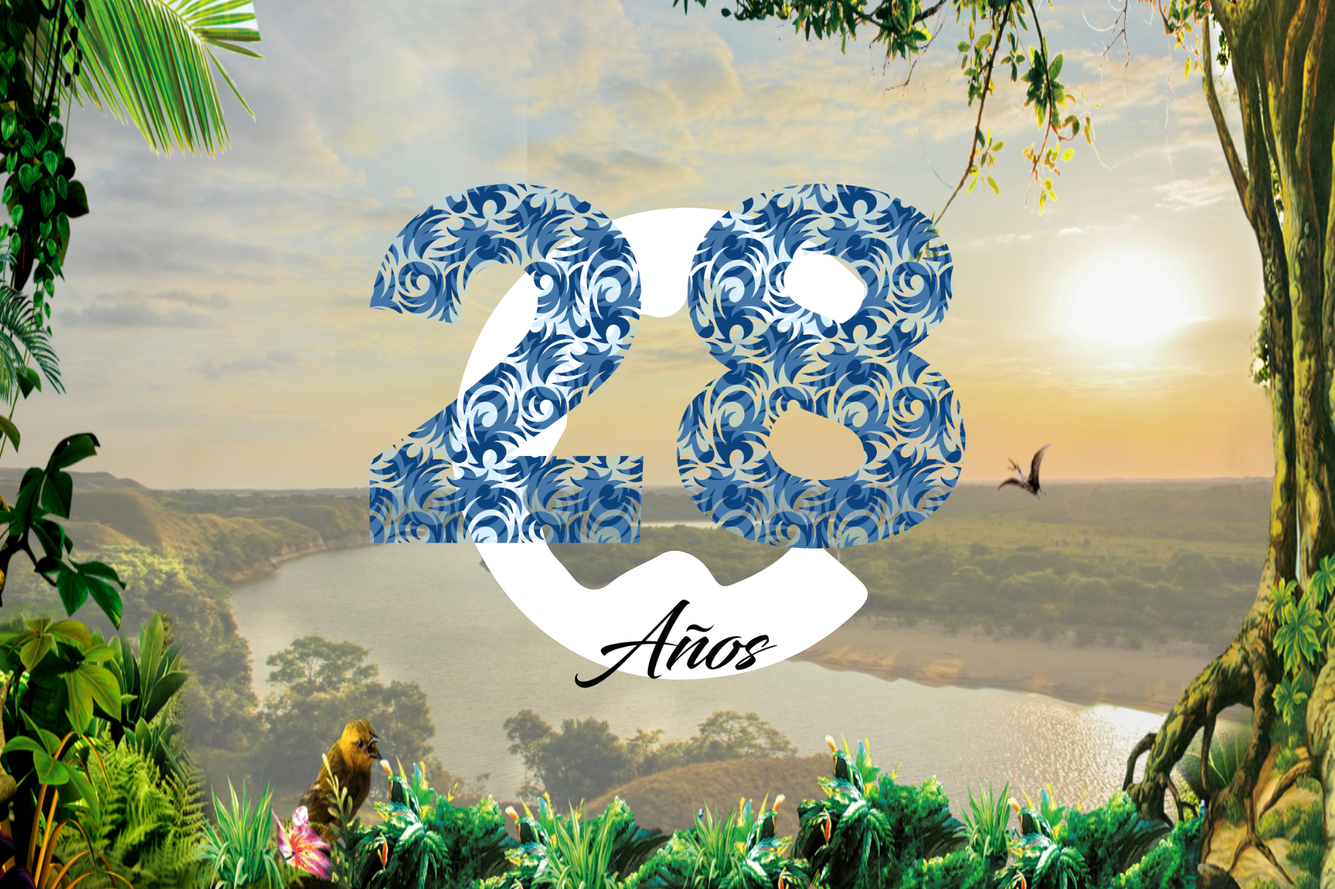
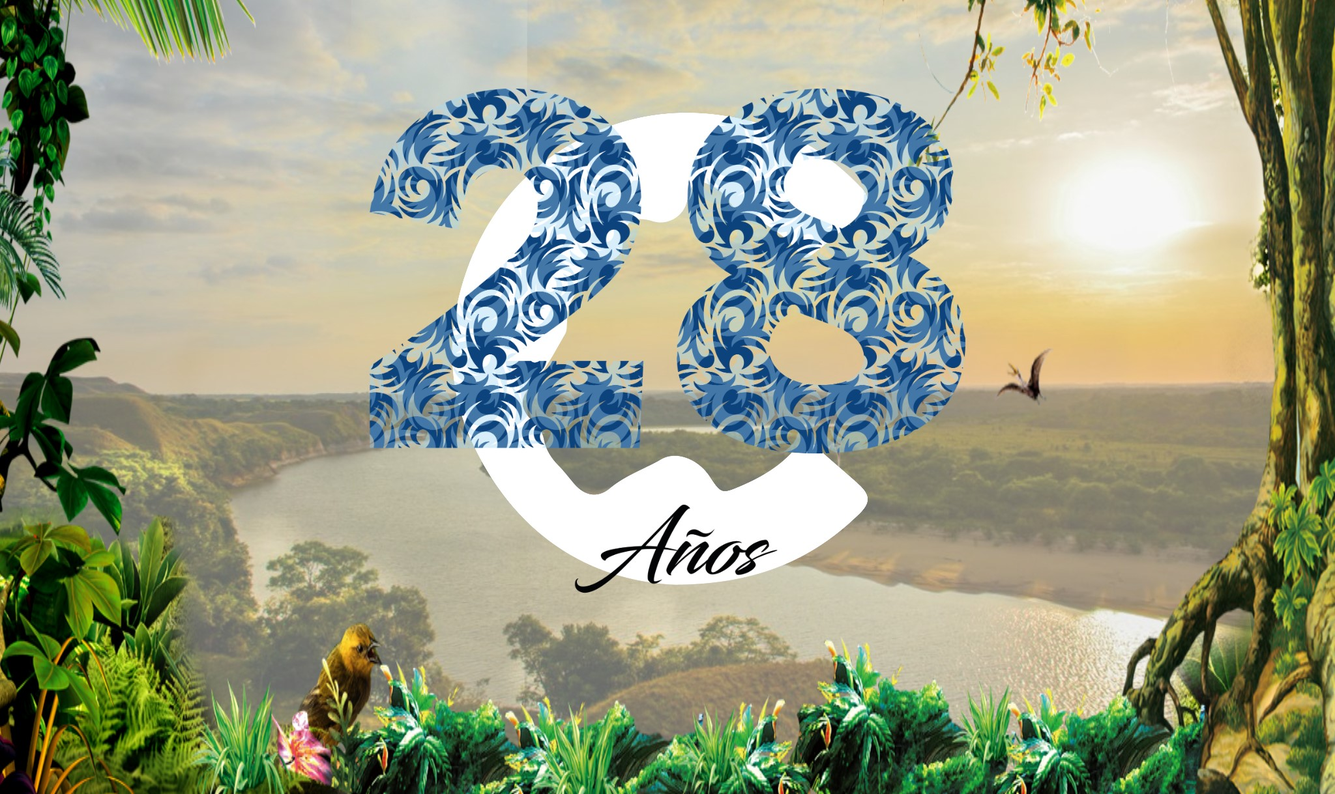
home screen

diff --git a/src/commons/home/portada/Pantalla.tsx b/src/commons/home/portada/Pantalla.tsx
@@ -1,47 +1,132 @@
+/* eslint-disable spaced-comment */
+/* eslint-disable @typescript-eslint/no-unused-vars */
 import Box from '@mui/material/Box';
 import Grid from '@mui/material/Grid';
 import Typography from '@mui/material/Typography';
-import { Inicio } from './imagen';
+import { CumpleCormacarena } from './imagen';
 import { Jaguar } from './Jaguar';
 import { LJaguarBlanco } from './LJaguarBlanco';
-import { Insta } from './Insta';
-import { Face } from '@mui/icons-material';
+import InstagramIcon from '@mui/icons-material/Instagram';
+import FacebookIcon from '@mui/icons-material/Facebook';
+import { motion } from 'framer-motion';
 
 // eslint-disable-next-line @typescript-eslint/naming-convention
 export const Pantalla: React.FC = () => {
   return (
-    <Box sx={{ flexGrow: 1 }}>
-      <Grid container spacing={2}>
-        <Grid item xs={12}>
-          <Inicio />
-        </Grid>
-        <Grid item xs={12}>
-          <Box border={0} sx={{ backgroundColor: '#042f4a', position: 'relative', top: '-4px' }}>
-            <Grid container spacing={0}>
-              <Grid item xs={5} style={{ width: '150px', height: '120px' }}>
-                <Jaguar />
-              </Grid>
-              <Grid item xs={4} border={0}>
-                <LJaguarBlanco />
-              </Grid>
-              <Grid item xs>
-                <Typography color="white" variant="body2" gutterBottom align="center">
-                  Horario de atención: 8:00 am-6:00 pm
-                  <br />
-                  Línea nacional 01-8000-51847095
-                  <br />
-                  info@cormacarena.gov.co
-                  <br />
-                  Villavicencio, Colombia
-                  <br />
-                  <Insta />
-                  <Face />
-                </Typography>
-              </Grid>
-            </Grid>
-          </Box>
-        </Grid>
-      </Grid>
-    </Box>
+    <section
+      
+      style={{
+        marginTop: '-90px',
+
+        position: 'relative',
+        backgroundImage: 'url(../image/imagenes/cumpleCormacarena.jpg)',
+        backgroundSize: 'cover',
+        backgroundRepeat: 'no-repeat',
+        backgroundPosition: 'center',
+        height: '100vh',
+        width: '100%'
+      }}
+    >
+      <footer
+        style={{
+          position: 'absolute',
+          right: '0px',
+          marginTop: '50px',
+          maxHeight: '230px',
+          left: '0px',
+          bottom: '0px',
+          width: '100%',
+          paddingTop: '10px',
+          // padding: '0px 20px 0px 20px',
+
+          height: 'auto',
+          backgroundColor: '#042f4a',
+          // opacity: '0.8',
+          textAlign: 'center',
+          display: 'grid',
+          // height: '10vh',
+
+          alignItems: 'center',
+          gridTemplateColumns: '1fr 1fr 1fr',
+          placeItems: 'center',
+          justifyContent: 'center'
+        }}
+      >
+        <Jaguar />
+
+        <LJaguarBlanco />
+        <section>
+          <p
+            style={{
+              color: '#fff',
+              marginTop: '2px',
+              marginBottom: '2px',
+              fontWeight: 'bold',
+              textAlign: 'center'
+            }}
+          >
+            Horario de atención: 8:00am - 6:00pm
+          </p>
+          <p
+            style={{
+              color: '#fff',
+              marginTop: '2px',
+              marginBottom: '2px',
+              fontWeight: 'bold',
+              textAlign: 'center'
+            }}
+          >
+            Linea nacional: 01-8000-51847095
+          </p>
+          <p
+            style={{
+              color: '#fff',
+              marginTop: '2px',
+              marginBottom: '2px',
+              fontWeight: 'bold',
+              textAlign: 'center'
+            }}
+          >
+            info@cormacarena.gov.co
+          </p>
+          <p
+            style={{
+              color: '#fff',
+              marginTop: '2px',
+              marginBottom: '10px',
+              fontWeight: 'bold',
+              textAlign: 'center'
+            }}
+          >
+            Villavicencio, CO
+          </p>
+          <a href="https://instagram.com/cormacarena?igshid=MzRlODBiNWFlZA=="
+            target="_blank" rel="noopener noreferrer"
+          >
+          <InstagramIcon
+            sx={{
+              color: '#fff',
+              width: '50px',
+
+              fontSize: '30px',
+            }}
+          />
+          </a>
+          <a href="https://www.facebook.com/CORMACARENA.CDS?mibextid=LQQJ4d"
+            target="_blank" rel="noopener noreferrer"
+          >
+          <FacebookIcon
+            sx={{
+              color: '#fff',
+              width: '50px',
+
+              fontSize: '30px',
+            }}
+          />
+          </a>
+        </section>
+      </footer>
+      {/* <CumpleCormacarena />*/}
+    </section>
   );
 };

diff --git a/src/commons/home/portada/Jaguar.tsx b/src/commons/home/portada/Jaguar.tsx
@@ -1,7 +1,39 @@
+/* eslint-disable @typescript-eslint/no-unused-vars */
+/* eslint-disable @typescript-eslint/naming-convention */
 // eslint-disable-next-line @typescript-eslint/naming-convention
+
+import {motion} from 'framer-motion';
+
+/* const styles = {
+  maxHeight: '298px',
+  width: '100%',
+  height: '220%',
+  marginLeft: '-20px',
+  marginTop: '-120px',
+} */
+
+
+
 export const Jaguar: React.FC = () => {
   return (
-    <img src='../image/imagenes/Jaguar.png' style={{ width: '510px', height: '330px', marginTop: '-200px' }}
+    <motion.div
+      animate={{
+        scale: [1, 1.2, 1.2, 1, 1],
+      }}
+      transition={{
+        duration: 2,
+      }}
+    >
+    <img src='../image/imagenes/Jaguar.png' style={{
+  maxHeight: '298px',
+  // width: '100%',
+  height: '220%',
+  position: 'absolute',
+  zIndex: 1,
+  left: '-10px',
+  bottom: '-5px  ',
+}}
     />
+    </motion.div>
   );
 }

diff --git a/src/commons/home/portada/imagen.tsx b/src/commons/home/portada/imagen.tsx
@@ -1,5 +1,7 @@
+/* eslint-disable @typescript-eslint/naming-convention */
 // eslint-disable-next-line @typescript-eslint/naming-convention
-export const Inicio: React.FC = () => {
+
+export const CumpleCormacarena: React.FC = () => {
   return (
     <img src="../image/imagenes/11.jpg" style={{ width: '100%', height: '600px' }} alt="Imagen compensar"
     />

diff --git a/src/css/App.css b/src/css/App.css
@@ -2,6 +2,8 @@
 @import url('https://fonts.googleapis.com/css?family=Roboto:300,400,500,700&display=swap');
 @import url('https://fonts.googleapis.com/css2?family=Arvo&display=swap');
 
+.css-5foeo5{padding:0;margin-top:0;height:-webkit-fill-available;}
+
 body {
   margin: 0;
   background: transparent;

diff --git a/src/commons/home/screens/HomeScreen.tsx b/src/commons/home/screens/HomeScreen.tsx
@@ -4,8 +4,8 @@ import { Pantalla } from "../portada/Pantalla";
 export const HomeScreen: React.FC = () => {
 
   return (
-    <>
+  
       <Pantalla/>
-    </>
+    
   );
 };
